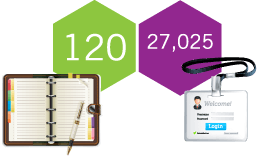
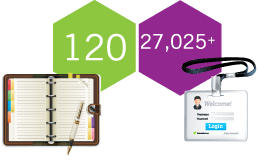
further updates

Changed region(s): [[0.5271, 0.1818, 0.8372, 0.303]]

diff --git a/sections/susan.php b/sections/susan.php
@@ -6,8 +6,8 @@ $name = "Susan Rock";
 $title = "Operations";
 $phrase = "Canada’s largest provider of CPD Accredited events driving C-IPE";
 $content = "<ul>
-	<li>120 Managed Accredited Events</li>
-	<li>27,025 Total Registrants</li>
+	<li>120 Managed Events</li>
+	<li>27,025+ Total Registrants</li>
 	<li>5 Year CACME Successful Review</li>
 </ul>";
 $contentMobile = "<ul>
